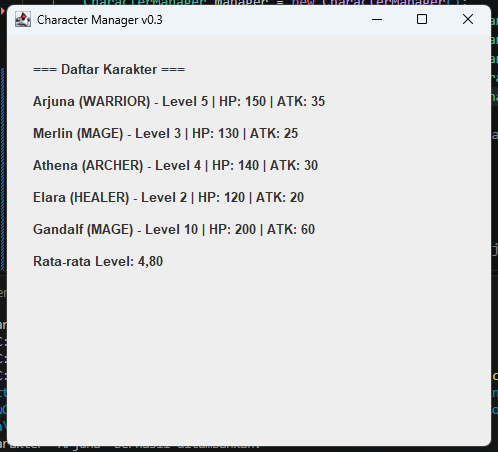
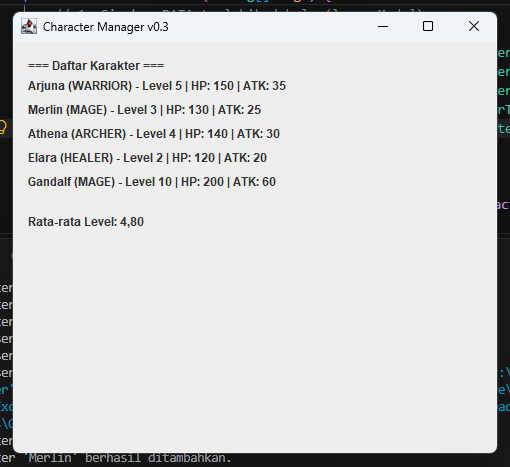
tp8

Changed region(s): [[0.0, 0.0, 1.0, 1.0], [0.0602, 0.5575, 0.3313, 0.5885]]

diff --git a/src/com/unpri/charactermanager/view/MainWindow.java b/src/com/unpri/charactermanager/view/MainWindow.java
@@ -1,25 +1,25 @@
 package com.unpri.charactermanager.view;
 
+import javax.swing.BorderFactory;
+import javax.swing.BoxLayout;
 import javax.swing.JFrame;
-import javax.swing.JPanel;
 import javax.swing.JLabel;
-import java.awt.BorderLayout;
+import javax.swing.JPanel;
 import java.util.ArrayList;
 import com.unpri.charactermanager.model.Character;
 
 /**
- * Jendela utama aplikasi Character Manager - Sprint #3.
+ * Jendela utama aplikasi Character Manager.
+ * Menampilkan daftar karakter yang diterima dari luar (bukan dibuat sendiri).
  */
 public class MainWindow extends JFrame {
 
     private JPanel mainPanel;
-    private ArrayList<Character> characterList;
-    private double averageLevel;
+    private ArrayList<Character> characterList;   // data yang akan ditampilkan
 
-    public MainWindow(ArrayList<Character> characterList, double averageLevel) {
-        super("Character Manager v0.3");
-        this.characterList = characterList;
-        this.averageLevel = averageLevel;
+    public MainWindow(ArrayList<Character> characterList) {
+        super("Character Manager v0.3");           // judul title bar
+        this.characterList = characterList;        // simpan data yang diterima dari Main.java
 
         initComponents();
 
@@ -30,31 +30,35 @@ public class MainWindow extends JFrame {
 
     private void initComponents() {
         mainPanel = new JPanel();
-        mainPanel.setLayout(new BorderLayout());
+        mainPanel.setLayout(new BoxLayout(mainPanel, BoxLayout.Y_AXIS));
+        mainPanel.setBorder(BorderFactory.createEmptyBorder(15, 15, 15, 15));
 
-        StringBuilder sb = new StringBuilder();
-        // Ukuran font sedikit lebih besar dan rata kiri, tanpa padding berlebih
-        sb.append("<html><div style='font-family: Arial; font-size: 13pt; text-align: left; padding: 20px;'>");
-        
-        // Judul (posisi normal seperti semula)
-        sb.append("=== Daftar Karakter ===<br><br>");
+        mainPanel.add(new JLabel("=== Daftar Karakter ==="));
 
-        // Looping setiap karakter dengan tambahan jarak (<br><br>) di setiap akhir baris karakter
+        // DINAMIS: satu JLabel dibuat untuk setiap karakter lewat loop
         for (Character c : characterList) {
-            sb.append(c.getName()).append(" (")
-              .append(c.getType()).append(") - Level ")
-              .append(c.getLevel()).append(" | HP: ")
-              .append(c.getHitPoints()).append(" | ATK: ")
-              .append(c.getAttackPower()).append("<br><br>"); // Diberi jarak antar data karakter
+            JLabel label = new JLabel(c.getName() + " (" + c.getType() + ") - Level " + c.getLevel()
+                    + " | HP: " + c.getHitPoints() + " | ATK: " + c.getAttackPower());
+            label.setBorder(BorderFactory.createEmptyBorder(4, 0, 4, 0));
+            mainPanel.add(label);
         }
 
-        // Statistik rata-rata level di bagian bawah (posisi normal seperti semula)
-        sb.append("Rata-rata Level: ").append(String.format("%.2f", averageLevel));
-        sb.append("</div></html>");
-
-        JLabel contentLabel = new JLabel(sb.toString());
-        mainPanel.add(contentLabel, BorderLayout.NORTH);
+        // MINI-CHALLENGE: statistik rata-rata level di bawah daftar
+        JLabel averageLabel = new JLabel("Rata-rata Level: " + String.format("%.2f", calculateAverageLevel()));
+        averageLabel.setBorder(BorderFactory.createEmptyBorder(20, 0, 0, 0));
+        mainPanel.add(averageLabel);
 
         add(mainPanel);
+    }
+
+    private double calculateAverageLevel() {
+        if (characterList.isEmpty()) {
+            return 0;   // hindari pembagian dengan nol
+        }
+        int sum = 0;
+        for (Character c : characterList) {
+            sum += c.getLevel();
+        }
+        return (double) sum / characterList.size();
     }
 }

diff --git a/src/com/unpri/charactermanager/model/CharacterManager.java b/src/com/unpri/charactermanager/model/CharacterManager.java
@@ -2,14 +2,22 @@ package com.unpri.charactermanager.model;
 
 import java.util.ArrayList;
 
+/**
+ * Mengelola koleksi Character: tambah, cari, hapus, dan statistik dasar.
+ * Menerapkan Composition: CharacterManager "has-a" ArrayList<Character>.
+ */
 public class CharacterManager {
-
     private ArrayList<Character> characterList;
 
     public CharacterManager() {
         this.characterList = new ArrayList<>();
     }
 
+    /**
+     * Menambahkan karakter baru ke dalam list.
+     * Menolak jika sudah ada karakter dengan nama yang sama.
+     * @return true jika berhasil ditambahkan, false jika ditolak karena duplikat
+     */
     public boolean addCharacter(Character character) {
         if (findByName(character.getName()) != null) {
             System.out.println("❌ Gagal: karakter dengan nama '" + character.getName() + "' sudah ada!");
@@ -20,6 +28,10 @@ public class CharacterManager {
         return true;
     }
 
+    /**
+     * Mencari karakter berdasarkan nama.
+     * @return object Character jika ditemukan, null jika tidak ada
+     */
     public Character findByName(String name) {
         for (Character c : characterList) {
             if (c.getName().equals(name)) {
@@ -29,6 +41,10 @@ public class CharacterManager {
         return null;
     }
 
+    /**
+     * Menghapus karakter dari list berdasarkan nama.
+     * @return true jika berhasil dihapus, false jika tidak ditemukan
+     */
     public boolean removeCharacter(String name) {
         Character target = findByName(name);
         if (target == null) {
@@ -44,21 +60,35 @@ public class CharacterManager {
         return characterList.size();
     }
 
+    /**
+     * Mengembalikan SALINAN list, bukan referensi asli,
+     * agar pemanggil tidak bisa mengubah data internal manager secara langsung.
+     */
     public ArrayList<Character> getAllCharacters() {
         return new ArrayList<>(characterList);
     }
 
+    // ===== BAGIAN B: Mini-Challenge =====
+
+    /**
+     * Menghitung rata-rata level seluruh karakter.
+     * @return rata-rata level, atau 0 jika list kosong (menghindari pembagian dengan nol)
+     */
     public double getAverageLevel() {
         if (characterList.isEmpty()) {
-            return 0.0;
+            return 0;
         }
-        int totalLevel = 0;
+        int sum = 0;
         for (Character c : characterList) {
-            totalLevel += c.getLevel();
+            sum += c.getLevel();
         }
-        return (double) totalLevel / characterList.size();
+        return (double) sum / characterList.size();
     }
 
+    /**
+     * Mengembalikan semua karakter dengan tipe tertentu.
+     * @return list baru berisi karakter bertipe tersebut (kosong jika tidak ada)
+     */
     public ArrayList<Character> findByType(CharacterType type) {
         ArrayList<Character> result = new ArrayList<>();
         for (Character c : characterList) {
@@ -67,5 +97,28 @@ public class CharacterManager {
             }
         }
         return result;
+    }
+
+    // ===== BAGIAN C: Fitur rancangan sendiri =====
+
+    /**
+     * Membuat ringkasan jumlah karakter untuk setiap tipe.
+     * Mengembalikan String (bukan list), sehingga ArrayList internal
+     * tidak terekspos ke pemanggil.
+     *
+     * @return ringkasan berbentuk "WARRIOR: 1  MAGE: 1  ARCHER: 0  HEALER: 0"
+     */
+    public String getTypeSummary() {
+        StringBuilder sb = new StringBuilder();
+        for (CharacterType type : CharacterType.values()) {
+            int count = 0;
+            for (Character c : characterList) {
+                if (c.getType() == type) {
+                    count++;
+                }
+            }
+            sb.append(type).append(": ").append(count).append("  ");
+        }
+        return sb.toString().trim();
     }
 }

diff --git a/src/com/unpri/charactermanager/model/Character.java b/src/com/unpri/charactermanager/model/Character.java
@@ -1,35 +1,100 @@
 package com.unpri.charactermanager.model;
 
 public class Character {
+    private int id;
     private String name;
     private CharacterType type;
     private int level;
+    private int hitPoints;
+    private int attackPower;
+    private int mana;
 
+    // STATIC: dimiliki bersama oleh semua object Character
+    private static int totalCharacterCreated = 0;
+
+    // Constructor 1: karakter BARU (statistik dihitung otomatis, id dari counter)
     public Character(String name, CharacterType type, int level) {
         this.name = name;
         this.type = type;
         this.level = level;
+        this.hitPoints = calculateBaseHP();
+        this.attackPower = calculateBaseAttack();
+        totalCharacterCreated++;
+        this.id = totalCharacterCreated;
     }
 
-    public String getName() {
-        return name;
+    // Constructor 2: MEMUAT karakter dari database (id dan statistik sudah ada)
+    public Character(int id, String name, CharacterType type, int level, int hitPoints, int attackPower) {
+        this.id = id;
+        this.name = name;
+        this.type = type;
+        this.level = level;
+        this.hitPoints = hitPoints;
+        this.attackPower = attackPower;
     }
 
-    public CharacterType getType() {
-        return type;
-    }
-
-    public int getLevel() {
-        return level;
-    }
-
-    // Perhitungan HP dinamis agar nilainya bervariasi tiap karakter (misal: Arjuna 150, Merlin 130, dll)
-    public int getHitPoints() {
+    private int calculateBaseHP() {
         return 100 + (level * 10);
     }
 
-    // Perhitungan Attack Power dinamis
-    public int getAttackPower() {
+    private int calculateBaseAttack() {
         return 10 + (level * 5);
+    }
+
+    public int getId() { return id; }
+    public String getName() { return name; }
+    public CharacterType getType() { return type; }
+    public int getLevel() { return level; }
+    public int getHitPoints() { return hitPoints; }
+    public int getAttackPower() { return attackPower; }
+    public int getMana() { return mana; }
+
+    public void setId(int id) { this.id = id; }
+
+    public void setLevel(int level) {
+        if (level < 1) {
+            throw new IllegalArgumentException("Level minimal adalah 1");
+        }
+        this.level = level;
+        this.hitPoints = calculateBaseHP();
+        this.attackPower = calculateBaseAttack();
+    }
+
+    public void setMana(int mana) {
+        if (mana < 0) {
+            throw new IllegalArgumentException("Mana tidak boleh negatif");
+        }
+        this.mana = mana;
+    }
+
+    public boolean isAlive() {
+        return hitPoints > 0;
+    }
+
+    public static int getTotalCharacterCreated() {
+        return totalCharacterCreated;
+    }
+
+    @Override
+    public boolean equals(Object obj) {
+        if (!(obj instanceof Character)) return false;
+        Character other = (Character) obj;
+        return this.name.equals(other.name);   // dianggap sama jika namanya identik
+    }
+
+    @Override
+    public int hashCode() {
+        return java.util.Objects.hash(name);
+    }
+
+    @Override
+    public String toString() {
+        return "Character{id=" + id +
+               ", name='" + name + '\'' +
+               ", type=" + type +
+               ", level=" + level +
+               ", hp=" + hitPoints +
+               ", atk=" + attackPower +
+               ", mana=" + mana + '}';
     }
 }

diff --git a/src/Main.java b/src/Main.java
@@ -12,16 +12,13 @@ public class Main {
         manager.addCharacter(new Character("Arjuna", CharacterType.WARRIOR, 5));
         manager.addCharacter(new Character("Merlin", CharacterType.MAGE, 3));
         manager.addCharacter(new Character("Athena", CharacterType.ARCHER, 4));
-        manager.addCharacter(new Character("Elara", CharacterType.HEALER, 2));
-        manager.addCharacter(new Character("Gandalf", CharacterType.MAGE, 10));
+        manager.addCharacter(new Character("Elara", CharacterType.HEALER, 2));    // karakter baru 1
+        manager.addCharacter(new Character("Gandalf", CharacterType.MAGE, 10));    // karakter baru 2
 
         // 2. Jalankan GUI dengan AMAN di Event Dispatch Thread
         SwingUtilities.invokeLater(() -> {
-            MainWindow window = new MainWindow(
-                manager.getAllCharacters(), 
-                manager.getAverageLevel()
-            );
-            window.setVisible(true);    // WAJIB — tampilkan jendela
+            MainWindow window = new MainWindow(manager.getAllCharacters());
+            window.setVisible(true);
         });
     }
 }

diff --git a/src/com/unpri/charactermanager/model/CharacterType.java b/src/com/unpri/charactermanager/model/CharacterType.java
@@ -4,6 +4,5 @@ public enum CharacterType {
     WARRIOR,
     MAGE,
     ARCHER,
-    TANK,
     HEALER
 }

diff --git a/README.MD b/README.MD
@@ -24,27 +24,26 @@ Main.java membuat CharacterManager dan mengisinya dengan lima karakter (Model). 
 ## Struktur folder
 ```text
 CharacterManager/
-│
 ├── src/
-│   └── com/
-│       └── unpri/
-│           └── charactermanager/
-│               ├── model/
-│               │   ├── Character.java
-│               │   ├── CharacterManager.java
-│               │   └── CharacterType.java
-│               │
-│               ├── view/
-│               │   └── MainWindow.java
-│               │
-│               └── Main.java
-│
+│   ├── com/
+│   │   └── unpri/
+│   │       └── charactermanager/
+│   │           ├── model/
+│   │           │   ├── Character.java
+│   │           │   ├── CharacterManager.java
+│   │           │   └── CharacterType.java
+│   │           └── view/
+│   │               └── MainWindow.java
+│   └── Main.java
 ├── output-tp5.png
 ├── output.png
+├── README.MD
 ├── tp8-sebelum.png
-├── tp8-sesudah.png
-└── README.md
+└── tp8-sesudah.png
 ```
 
 ## Analisis Bagian D TP8 (Google Docs)
+Nama : Natanael Lata Saro Agassi Zebua
+Nim : 253303621260  
+
 https://docs.google.com/document/d/1P2E1Vt90Tm4gVKWp6zVS8HTPDeWaj57T_hBUxTMtxhY/edit?usp=drive_link
